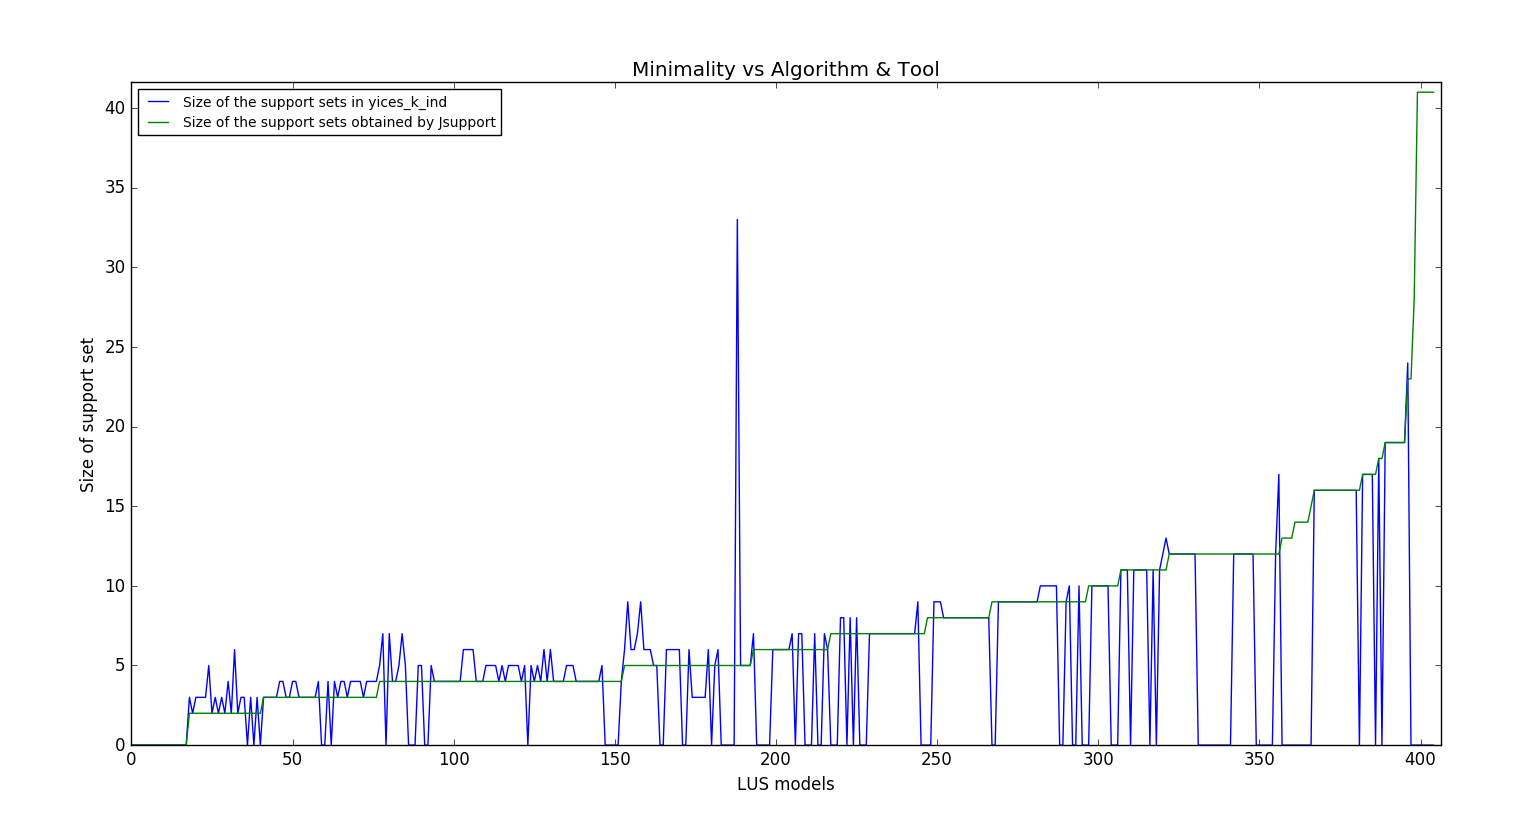
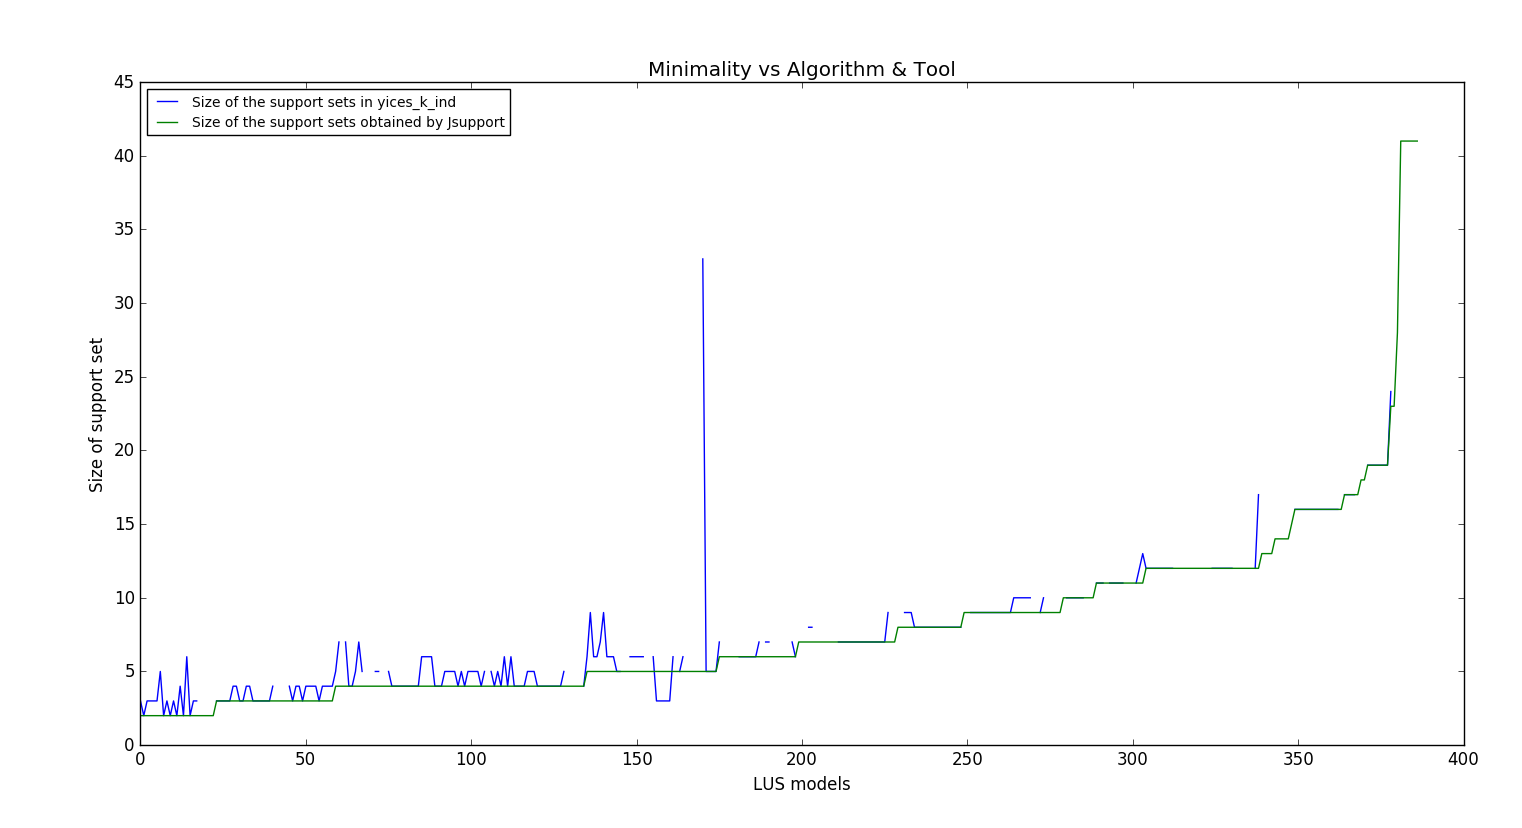
update minimality results!

diff --git a/support/experiments/scripts_for_experiments/minimality_analyzer.py b/support/experiments/scripts_for_experiments/minimality_analyzer.py
@@ -100,8 +100,11 @@ writer.write('\nthe aggregate number of elements in the SMALLEST support sets is
 writer.write('\nthe aggregate number of elements in the BIGGEST support sets is: '+ str(int(np.nansum([i for i in bigs_all_models]))))
 jsup = []
 for model in all_models_sup_sets:
-    jsup.append(len(model[0]))
-writer.write('\nthe aggregate number of elements in support sets computed by JSUPPORT is: '+ str(sum([i for i in jsup if i != float('nan')])))
+    if model[0] == set([]):
+        jsup.append(float('nan'))
+    else:
+        jsup.append(len(model[0]))
+writer.write('\nthe aggregate number of elements in support sets computed by JSUPPORT is: '+ str(int(np.nansum([i for i in jsup]))))
 writer.close()
 
 #
@@ -152,7 +155,10 @@ for i in range(1, len(SETTINGS)):
 # extracting        
 for model in all_models_sup_sets:
     for i in range(1, len(SETTINGS)):
-        size_in_settings_all_models[i-1].append(len(model[i]))
+        if model [i] != set([]):
+            size_in_settings_all_models[i-1].append(len(model[i]))
+        else:
+            size_in_settings_all_models[i-1].append(float('nan'))
 # sorting
 sorted_settings_all_models  = []
 for i in range(1, len(SETTINGS)):
@@ -169,7 +175,7 @@ for item in sorted_jsup:
     jsup_y.append(item['size'])
 
 # visualize minimality
-'''
+
 fig = plt.figure()
 ax = plt.subplot(111) 
  
@@ -204,12 +210,12 @@ for indx, setting in enumerate(sorted_settings_all_models):
     fig2.savefig(os.path.join(os.pardir, ANALYSES_DIR, 'min_alg_tool_'+SETTINGS[indx+1]+'.png'))
     plt.close(fig2)
     
-    '''
     
-fig2 = plt.figure()
+    
+'''fig2 = plt.figure()
 ax2 = plt.subplot(111) 
 for indx, setting in enumerate(sorted_settings_all_models):
-    if 'both' in SETTINGS[indx+1]:
+    if 'pdr' in SETTINGS[indx+1]:
         plt.plot(x_axis, setting, label='Size of the support sets in ' + SETTINGS[indx+1])
 plt.plot(x_axis, jsup_y, label='Size of the support sets obtained by Jsupport')
 plt.xlabel('LUS models')
@@ -220,4 +226,4 @@ ax2.set_position([box.x0, box.y0, box.width * 0.8, box.height])
 ax2.legend(loc=2, prop={'size':10}) 
 plt.show()
 fig2.savefig(os.path.join(os.pardir, ANALYSES_DIR, 'min_pdr_tool_'+SETTINGS[indx+1]+'.png'))
-plt.close(fig2)
+plt.close(fig2)'''
